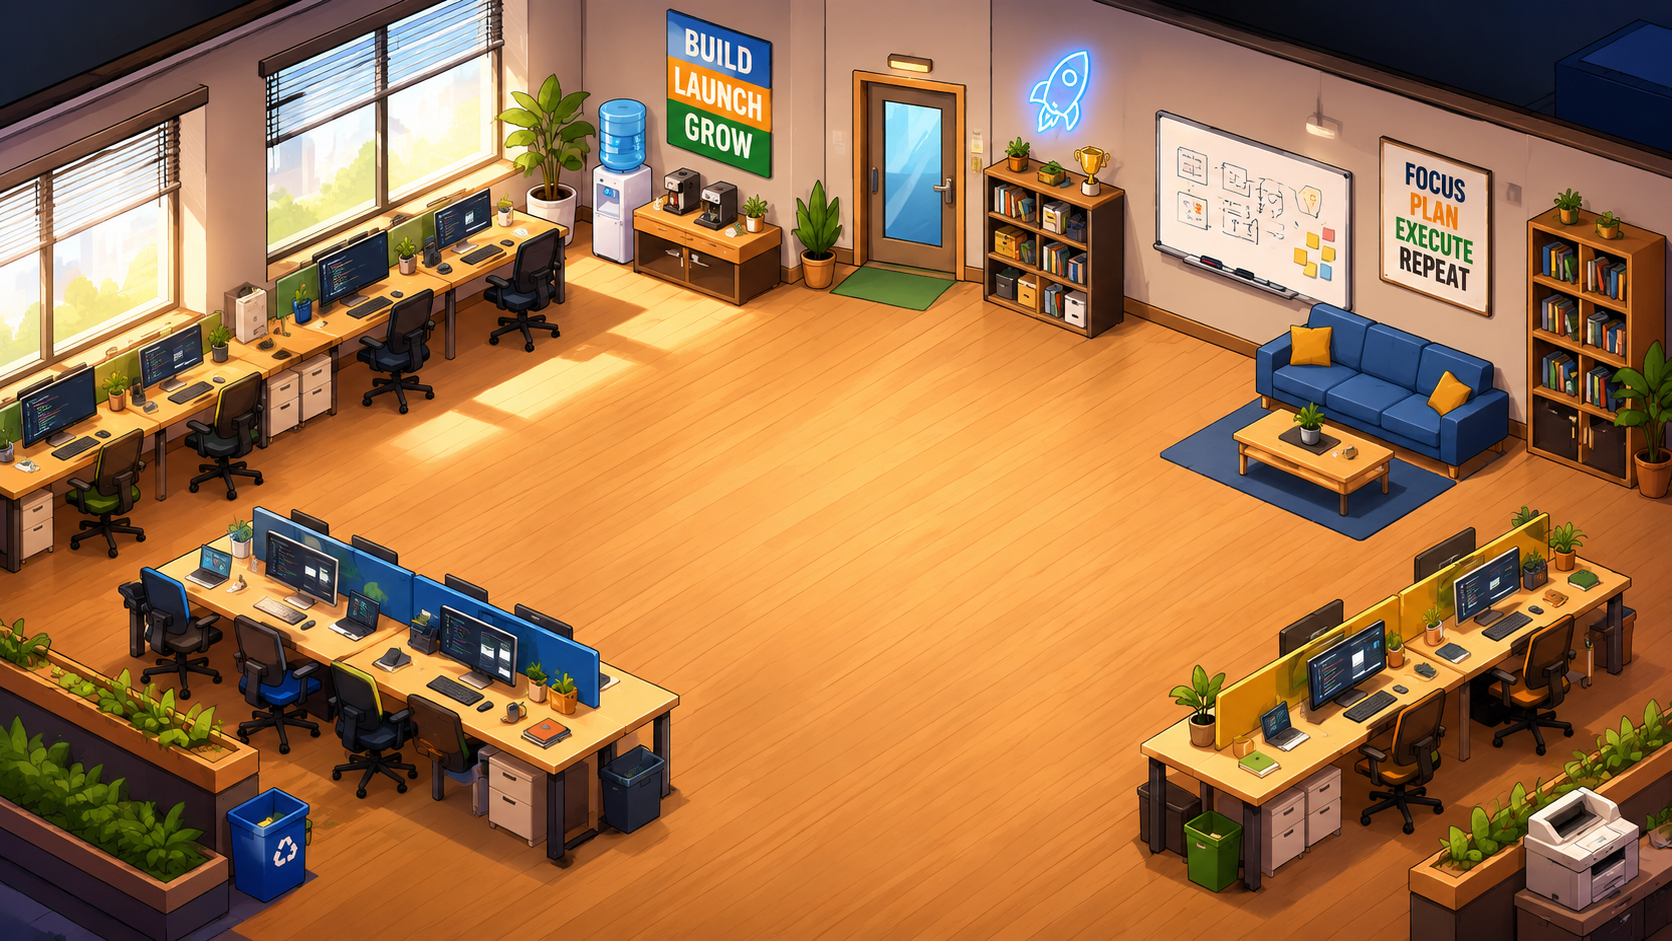
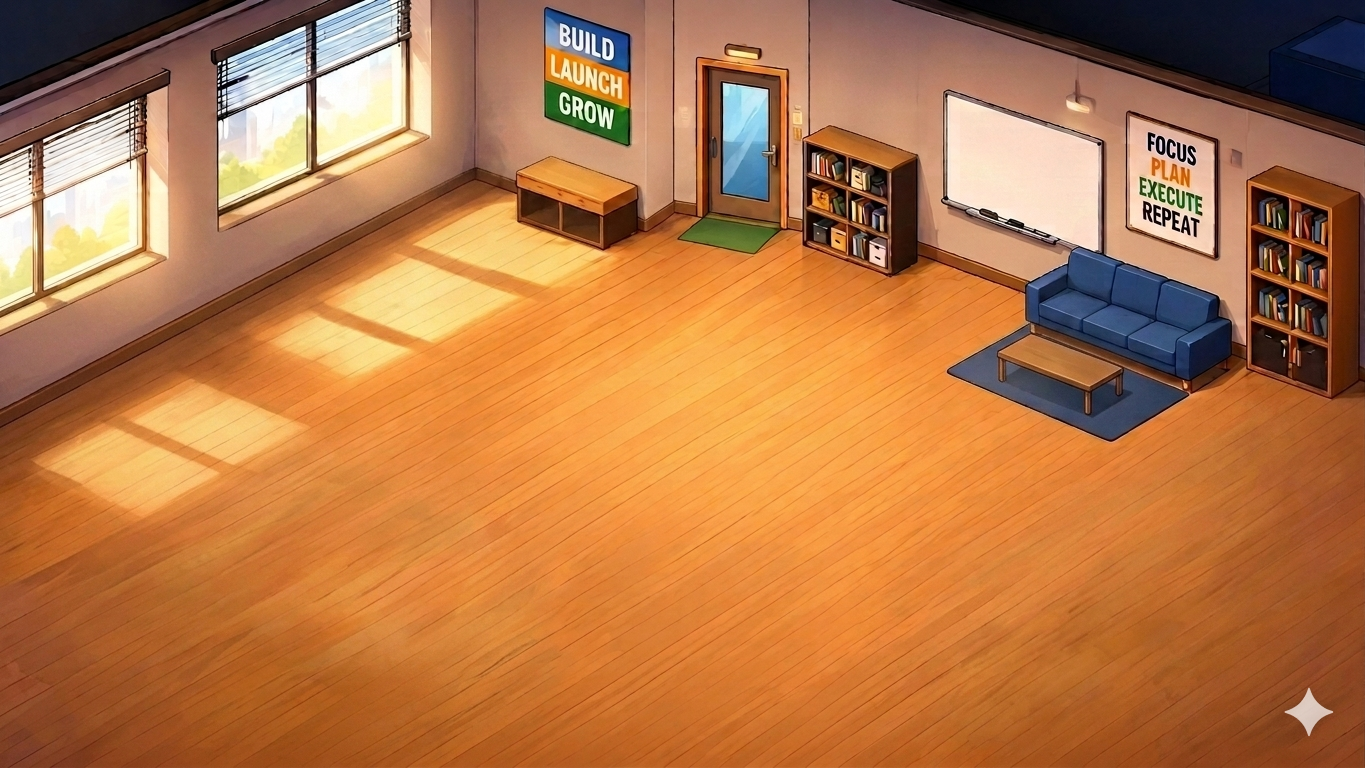
Add OfficePropsLayer: animated desks, seated workers, ambient props
- New clean background (no tables — OfficePropsLayer adds all furniture)
- 6 desk stations: 3 Kit1 Executivo (left) + 3 Kit2 Desenvolvedor (right)
  each with animated monitor screen and generic seated worker (12 frames)
- Animated ambient props: water cooler, coffee machine, printer, neon rocket
- Workers now roam only the open floor (no more seat spots)

https://claude.ai/code/session_0174yWPu5k92TpVuHoUv3hKt

diff --git a/Assets/Scripts/UI/OfficePropsLayer.cs b/Assets/Scripts/UI/OfficePropsLayer.cs
@@ -1,0 +1,215 @@
+using System.Collections;
+using UnityEngine;
+using UnityEngine.UI;
+
+namespace GameIdle
+{
+    /// <summary>
+    /// Coloca mesas, cadeiras, monitores e props animados sobre o chão do escritório.
+    /// As mesas são estáticas + trabalhadores genéricos sentados animados por cima.
+    /// </summary>
+    public class OfficePropsLayer : MonoBehaviour
+    {
+        private RectTransform _panel;
+
+        // ── Posições das mesas ────────────────────────────────────────────────
+        // 3 Kit1 (Executivo, esquerda) + 3 Kit2 (Desenvolvedor, direita)
+        private static readonly Vector2[] DeskPositions =
+        {
+            new(-390f,  170f),
+            new(-390f,   10f),
+            new(-390f, -150f),
+
+            new( 230f,  170f),
+            new( 230f,   10f),
+            new( 230f, -150f),
+        };
+
+        // 0 = Kit1 Executivo, 1 = Kit2 Desenvolvedor
+        private static readonly int[] DeskKit = { 0, 0, 0, 1, 1, 1 };
+
+        // ── Desk kit sheet layout (desk_kit.png) ─────────────────────────────
+        // A imagem tem:
+        //   Linha título  : ~8% da altura (ignoramos)
+        //   Previews       : ~32% da altura (Kit1 esquerda | Kit2 direita)
+        //   4 strips de anim: ~60% restantes, cada strip = 8 frames em 1 linha
+        //     strip 0: cadeiras Kit1
+        //     strip 1: cadeiras Kit2
+        //     strip 2: monitores Kit1
+        //     strip 3: monitores Kit2
+        private const float TitleFrac   = 0.08f;
+        private const float PreviewFrac = 0.32f;
+        private const int   AnimStrips  = 4;
+        private const int   AnimCols    = 8;
+
+        // ── Props do ambiente ─────────────────────────────────────────────────
+        // (path, pos, size, rows, cols)
+        private static readonly (string path, Vector2 pos, Vector2 size, int rows, int cols)[] AmbientProps =
+        {
+            ("Props/water_cooler",   new Vector2(-310f,  230f), new Vector2( 90f, 140f), 2, 6),
+            ("Props/coffee_machine", new Vector2( 370f,  200f), new Vector2(110f, 110f), 2, 4),
+            ("Props/printer",        new Vector2( 430f, -130f), new Vector2(110f, 110f), 2, 5),
+            ("Props/neon_rocket",    new Vector2(  55f,  330f), new Vector2(130f,  85f), 1, 4),
+        };
+
+        public void Init(RectTransform panel)
+        {
+            _panel = panel;
+            SpawnDesks();
+            SpawnAmbientProps();
+        }
+
+        // ── Mesas ─────────────────────────────────────────────────────────────
+
+        private void SpawnDesks()
+        {
+            var tex = Resources.Load<Texture2D>("Props/desk_kit");
+            if (tex == null)
+            {
+                Debug.LogWarning("[OfficePropsLayer] Props/desk_kit.png not found");
+                return;
+            }
+
+            float totalH    = tex.height;
+            float previewY0 = totalH * (1f - TitleFrac - PreviewFrac); // y bottom of preview band
+            float previewH  = totalH * PreviewFrac;
+            float animBandH = totalH * (1f - TitleFrac - PreviewFrac); // bottom band
+            float stripH    = animBandH / AnimStrips;
+            float frameW    = (float)tex.width / AnimCols;
+            float halfW     = tex.width * 0.5f;
+
+            for (int i = 0; i < DeskPositions.Length; i++)
+            {
+                int kit = DeskKit[i];
+
+                // ── Base da mesa (preview) ──────────────────────────────────
+                float baseX = kit == 0 ? 0f : halfW;
+                var baseRect = new Rect(baseX, previewY0, halfW, previewH);
+                var baseSprite = Sprite.Create(tex, baseRect, new Vector2(0.5f, 0f), 100f, 0, SpriteMeshType.FullRect);
+
+                var deskGO = new GameObject($"Desk_{i}", typeof(RectTransform), typeof(Image));
+                deskGO.transform.SetParent(_panel, false);
+                var deskRt = deskGO.GetComponent<RectTransform>();
+                deskRt.anchorMin = deskRt.anchorMax = new Vector2(0.5f, 0.5f);
+                deskRt.pivot = new Vector2(0.5f, 0f);
+                deskRt.sizeDelta = new Vector2(210f, 120f);
+                deskRt.anchoredPosition = DeskPositions[i];
+                var deskImg = deskGO.GetComponent<Image>();
+                deskImg.sprite = baseSprite;
+                deskImg.preserveAspect = true;
+                deskImg.raycastTarget = false;
+
+                // ── Animação do monitor (strips 2 e 3) ─────────────────────
+                int monStripIdx = kit == 0 ? 2 : 3;
+                float monStripY = monStripIdx * stripH; // y from bottom of anim band = 0
+                var monFrames = SliceStrip(tex, frameW, stripH, monStripY, AnimCols);
+                if (monFrames != null)
+                    PlaceAnimLayer(deskGO.transform, "Monitor", monFrames,
+                        new Vector2(10f, 85f), new Vector2(75f, 45f), fps: 6f);
+
+                // ── Trabalhador sentado genérico ────────────────────────────
+                SpawnSeatedWorker(deskGO.transform, i);
+            }
+        }
+
+        private static Sprite[] SliceStrip(Texture2D tex, float frameW, float stripH, float stripYFromBottom, int cols)
+        {
+            var frames = new Sprite[cols];
+            for (int c = 0; c < cols; c++)
+            {
+                var rect = new Rect(c * frameW, stripYFromBottom, frameW, stripH);
+                if (rect.xMax > tex.width || rect.yMax > tex.height) return null;
+                frames[c] = Sprite.Create(tex, rect, new Vector2(0.5f, 0.5f), 100f, 0, SpriteMeshType.FullRect);
+            }
+            return frames;
+        }
+
+        private void SpawnSeatedWorker(Transform deskParent, int deskIdx)
+        {
+            string path = (deskIdx % 2 == 0) ? "Characters/Sprites/seated_a"
+                                              : "Characters/Sprites/seated_b";
+            var tex = Resources.Load<Texture2D>(path);
+            if (tex == null) return;
+
+            tex = SpriteBackgroundRemover.Process(tex);
+
+            // 12 frames: 2 linhas × 6 colunas
+            const int cols = 6, rows = 2;
+            int frameW = tex.width  / cols;
+            int frameH = tex.height / rows;
+            var frames = new Sprite[rows * cols];
+            for (int r = 0; r < rows; r++)
+            {
+                int y = tex.height - (r + 1) * frameH;
+                for (int c = 0; c < cols; c++)
+                    frames[r * cols + c] = Sprite.Create(tex,
+                        new Rect(c * frameW, y, frameW, frameH),
+                        new Vector2(0.5f, 0f), 100f, 0, SpriteMeshType.FullRect);
+            }
+
+            PlaceAnimLayer(deskParent, "SeatedWorker", frames,
+                new Vector2(0f, 5f), new Vector2(105f, 125f), fps: 3f);
+        }
+
+        // ── Props do ambiente ─────────────────────────────────────────────────
+
+        private void SpawnAmbientProps()
+        {
+            foreach (var (path, pos, size, rows, cols) in AmbientProps)
+            {
+                var tex = Resources.Load<Texture2D>(path);
+                if (tex == null) { Debug.LogWarning($"[OfficePropsLayer] {path} not found"); continue; }
+
+                tex = SpriteBackgroundRemover.Process(tex);
+
+                int fw = tex.width  / cols;
+                int fh = tex.height / rows;
+                var frames = new Sprite[rows * cols];
+                for (int r = 0; r < rows; r++)
+                {
+                    int y = tex.height - (r + 1) * fh;
+                    for (int c = 0; c < cols; c++)
+                        frames[r * cols + c] = Sprite.Create(tex,
+                            new Rect(c * fw, y, fw, fh),
+                            new Vector2(0.5f, 0.5f), 100f, 0, SpriteMeshType.FullRect);
+                }
+
+                PlaceAnimLayer(_panel, path, frames, pos, size, fps: 5f);
+            }
+        }
+
+        // ── Helpers ───────────────────────────────────────────────────────────
+
+        private void PlaceAnimLayer(Transform parent, string name, Sprite[] frames,
+            Vector2 pos, Vector2 size, float fps)
+        {
+            var go = new GameObject(name, typeof(RectTransform), typeof(Image));
+            go.transform.SetParent(parent, false);
+            var rt = go.GetComponent<RectTransform>();
+            rt.anchorMin = rt.anchorMax = new Vector2(0.5f, 0.5f);
+            rt.pivot = new Vector2(0.5f, 0f);
+            rt.anchoredPosition = pos;
+            rt.sizeDelta = size;
+            var img = go.GetComponent<Image>();
+            img.sprite = frames[0];
+            img.preserveAspect = true;
+            img.raycastTarget = false;
+
+            if (frames.Length > 1)
+                StartCoroutine(AnimLoop(img, frames, fps));
+        }
+
+        private static IEnumerator AnimLoop(Image img, Sprite[] frames, float fps)
+        {
+            float interval = 1f / fps;
+            int i = 0;
+            while (true)
+            {
+                yield return new WaitForSeconds(interval + Random.Range(-0.05f, 0.05f));
+                if (img == null) yield break;
+                i = (i + 1) % frames.Length;
+                img.sprite = frames[i];
+            }
+        }
+    }
+}

diff --git a/Assets/Scripts/UI/OfficeWorkerManager.cs b/Assets/Scripts/UI/OfficeWorkerManager.cs
@@ -21,31 +21,28 @@ namespace GameIdle
         // Com a reserva 1-por-spot, os personagens não se sobrepõem.
         // Coordenadas calibradas pelos landmarks reais do escritório (mapeadas a
         // partir do screenshot). y é "para cima"; o centro do chão fica perto de (20,55).
+        // Spots de roaming no chão aberto — mesas são gerenciadas pelo OfficePropsLayer.
         public static readonly Vector2[] SpreadPositions =
         {
-            // mesas (em pé trabalhando)
-            new(-556f, 261f), // mesa esquerda (cima) — cadeira 1
-            new(-420f, 235f), // mesa esquerda (cima) — cadeira 2
-            new(-505f, -79f), // mesa esquerda (baixo) — cadeira 1
-            new(-403f, -96f), // mesa esquerda (baixo) — cadeira 2
-            // landmarks (em pé, na frente do objeto — sem animação de uso)
-            new(-344f, 250f), // em frente ao bebedouro de água
-            new( 350f,  10f), // em frente ao sofá (passando da mesinha de centro)
-            // chão aberto (em pé, circulando)
-            new(  20f,  55f), // centro
-            new(-150f, 120f), // centro-fundo
-            new( 180f,  20f), // centro-direita
-            new(-200f, -120f), // frente-esquerda
-            new(  -4f, 232f), // em frente à estante / lousa
+            new(  20f,   55f), // centro
+            new(-160f,  130f), // centro-fundo esquerda
+            new( 180f,   30f), // centro-direita
+            new(-200f, -110f), // frente-esquerda
+            new(  -4f,  220f), // fundo-centro
+            new( 100f,  180f), // fundo-direita
+            new(-100f,  -60f), // frente-centro
+            new( 280f,  120f), // direita
+            new(-280f,   60f), // esquerda
+            new(  60f, -100f), // frente
+            new(-60f,   280f), // fundo
         };
 
-        // Quais spots são mesas (o personagem fica mais tempo "trabalhando").
+        // Nenhum spot é cadeira — os workers só roam pelo chão aberto.
         public static readonly bool[] IsSeat =
         {
-            true,  true,  true,  true,
-            false, false,
             false, false, false, false,
-            false,
+            false, false, false, false,
+            false, false, false,
         };
 
         public void Init(RectTransform panelMain)

diff --git a/Assets/Scripts/UI/UIManager.cs b/Assets/Scripts/UI/UIManager.cs
@@ -895,6 +895,11 @@ namespace GameIdle
             _boostBtnText.color = Color.white; _boostBtnText.raycastTarget = false;
             var btf = GetCachedFont(); if (btf != null) _boostBtnText.font = btf;
 
+            // ── Office Props Layer (mesas, props animados) ────────────────
+            var propsGO = new GameObject("OfficePropsLayer", typeof(OfficePropsLayer));
+            propsGO.transform.SetParent(pmGO.transform, false);
+            propsGO.GetComponent<OfficePropsLayer>().Init(panelMain);
+
             // ── Office Worker Manager ──────────────────────────────────────
             var workerGO = new GameObject("OfficeWorkerManager", typeof(OfficeWorkerManager));
             workerGO.transform.SetParent(pmGO.transform, false);
